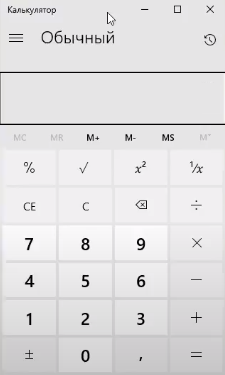
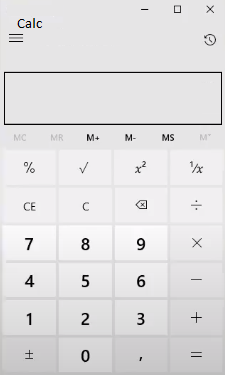
added styles to number buttons

diff --git a/style.css b/style.css
@@ -1,12 +1,12 @@
 .center {
   position: absolute;
-  display: block;
+  /* display: block; */
   top: 50%;
   left: 50%;
   transform: translate(-50%, -50%);
-  width: 327px;
+  width: 225px;
   /* width: 80%; */
-  height: 537px;
+  height: 375px;
   /* height: 80%; */
   background-color: purple;
   /* margin-top: calc(height/2); */
@@ -14,4 +14,95 @@
 }
 .img_bg {
   display: block;
+  background-size: cover;
+}
+#id0 {
+  position: absolute;
+  width: 54px;
+  margin-top: -37px;
+  margin-left: 58px;
+  height: 34px;
+  border: none;
+  border-radius: 2px;
+}
+#id1 {
+  position: absolute;
+  width: 54px;
+  margin-top: -75px;
+  margin-left: 2px;
+  height: 34px;
+  border: none;
+  border-radius: 2px;
+}
+#id2 {
+  position: absolute;
+  width: 54px;
+  margin-top: -75px;
+  margin-left: 58px;
+  height: 34px;
+  border: none;
+  border-radius: 2px;
+}
+#id3 {
+  position: absolute;
+  width: 54px;
+  margin-top: -75px;
+  margin-left: 114px;
+  height: 34px;
+  border: none;
+  border-radius: 2px;
+}
+#id4 {
+  position: absolute;
+  width: 54px;
+  margin-top: -112px;
+  margin-left: 2px;
+  height: 34px;
+  border: none;
+  border-radius: 2px;
+}
+#id5 {
+  position: absolute;
+  width: 54px;
+  margin-top: -112px;
+  margin-left: 58px;
+  height: 34px;
+  border: none;
+  border-radius: 2px;
+}
+#id6 {
+  position: absolute;
+  width: 54px;
+  margin-top: -112px;
+  margin-left: 114px;
+  height: 34px;
+  border: none;
+  border-radius: 2px;
+}
+#id7 {
+  position: absolute;
+  width: 54px;
+  margin-top: -150px;
+  margin-left: 2px;
+  height: 34px;
+  border: none;
+  border-radius: 2px;
+}
+#id8 {
+  position: absolute;
+  width: 54px;
+  margin-top: -150px;
+  margin-left: 58px;
+  height: 34px;
+  border: none;
+  border-radius: 2px;
+}
+#id9 {
+  position: absolute;
+  width: 54px;
+  margin-top: -150px;
+  margin-left: 114px;
+  height: 34px;
+  border: none;
+  border-radius: 2px;
 }
